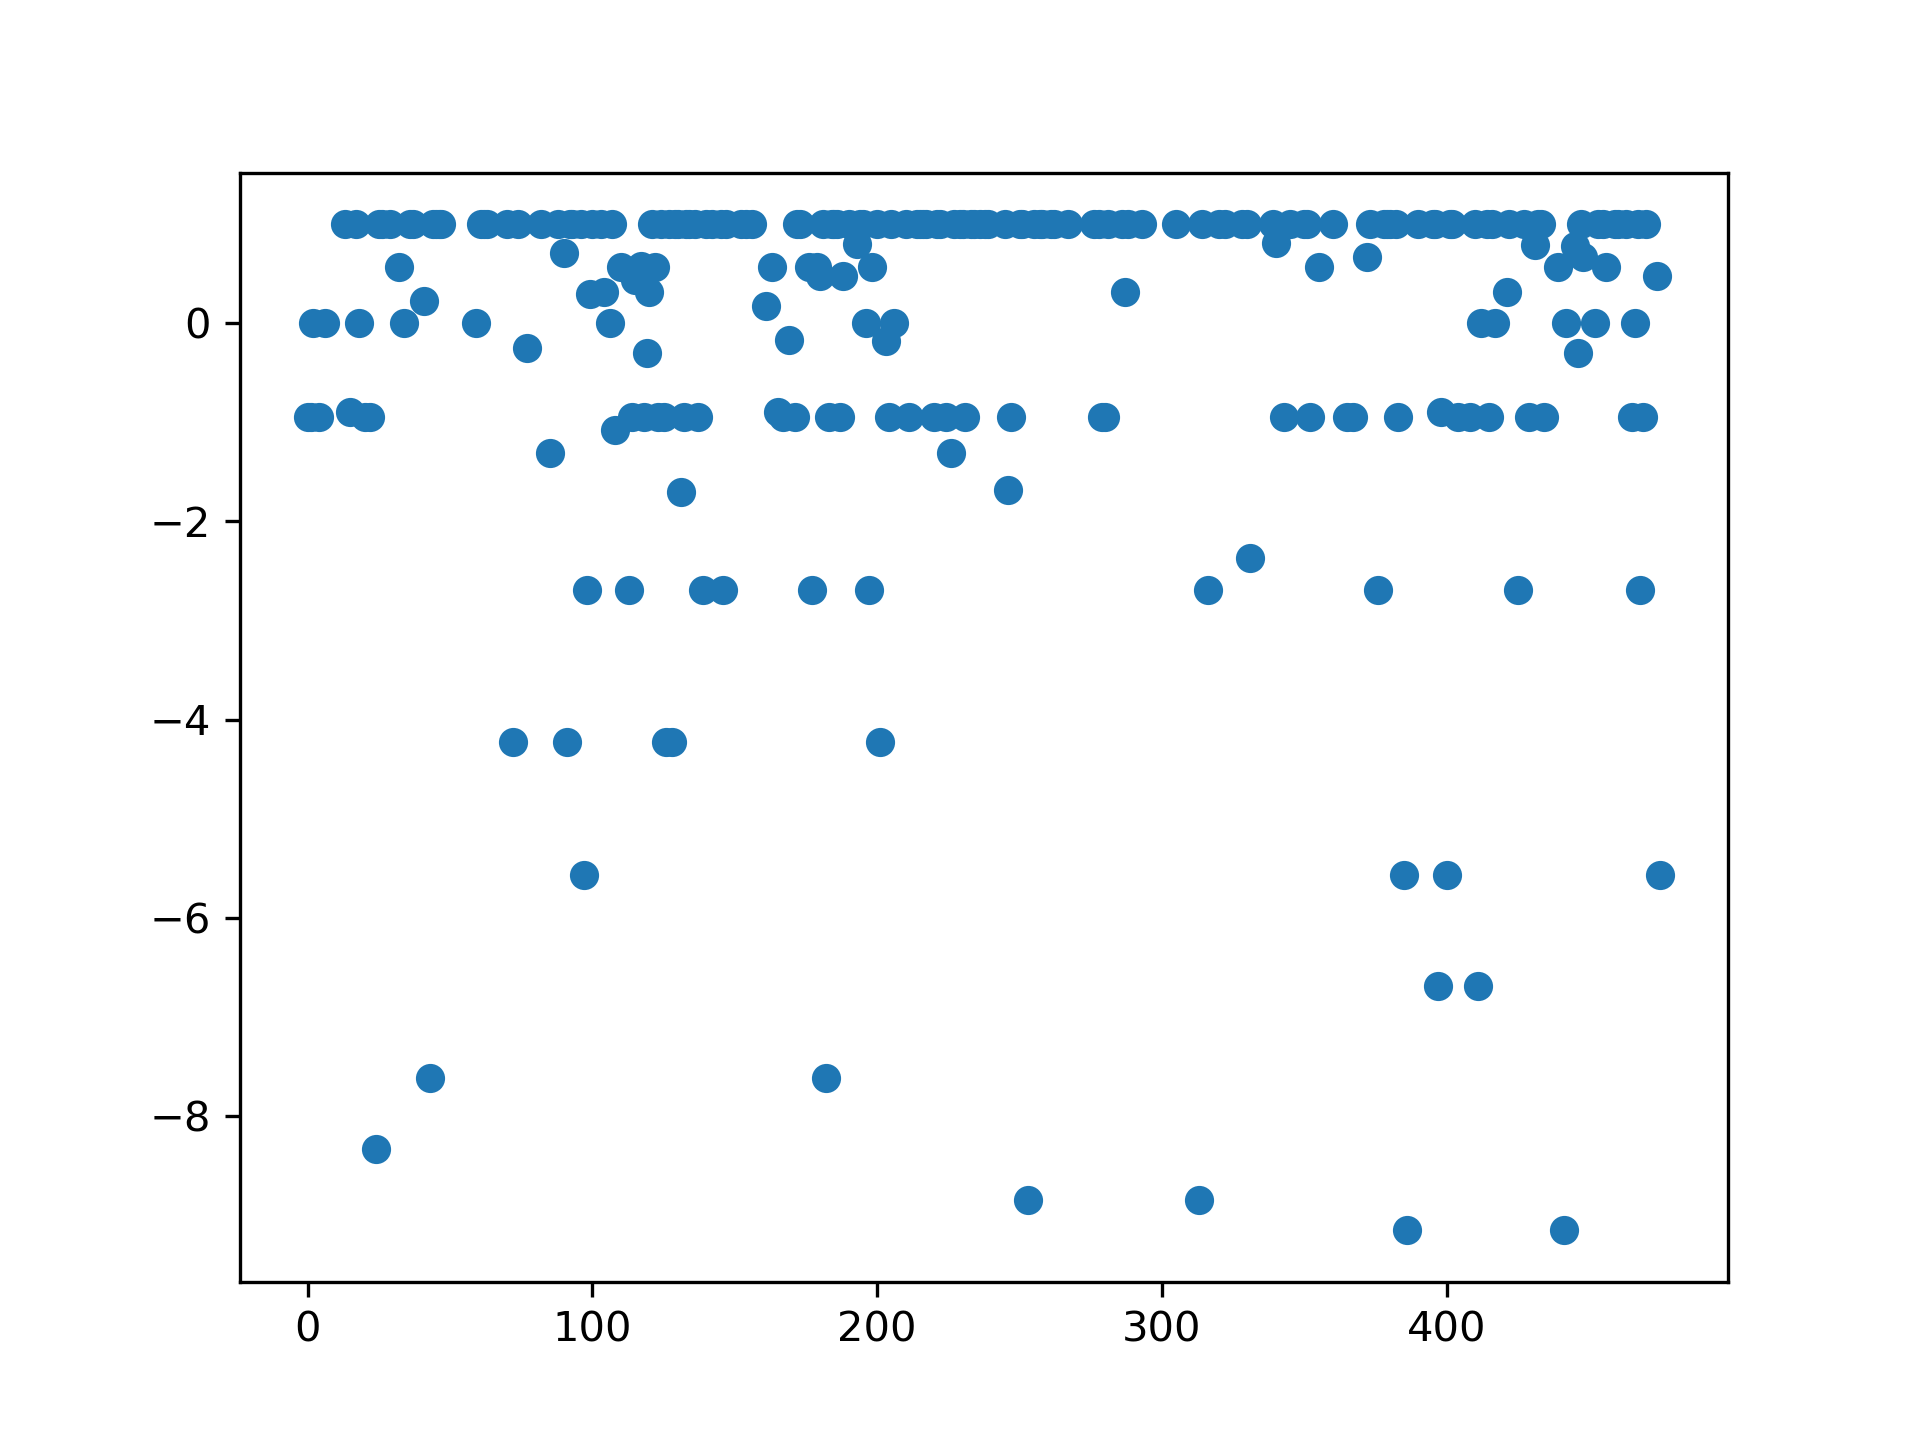
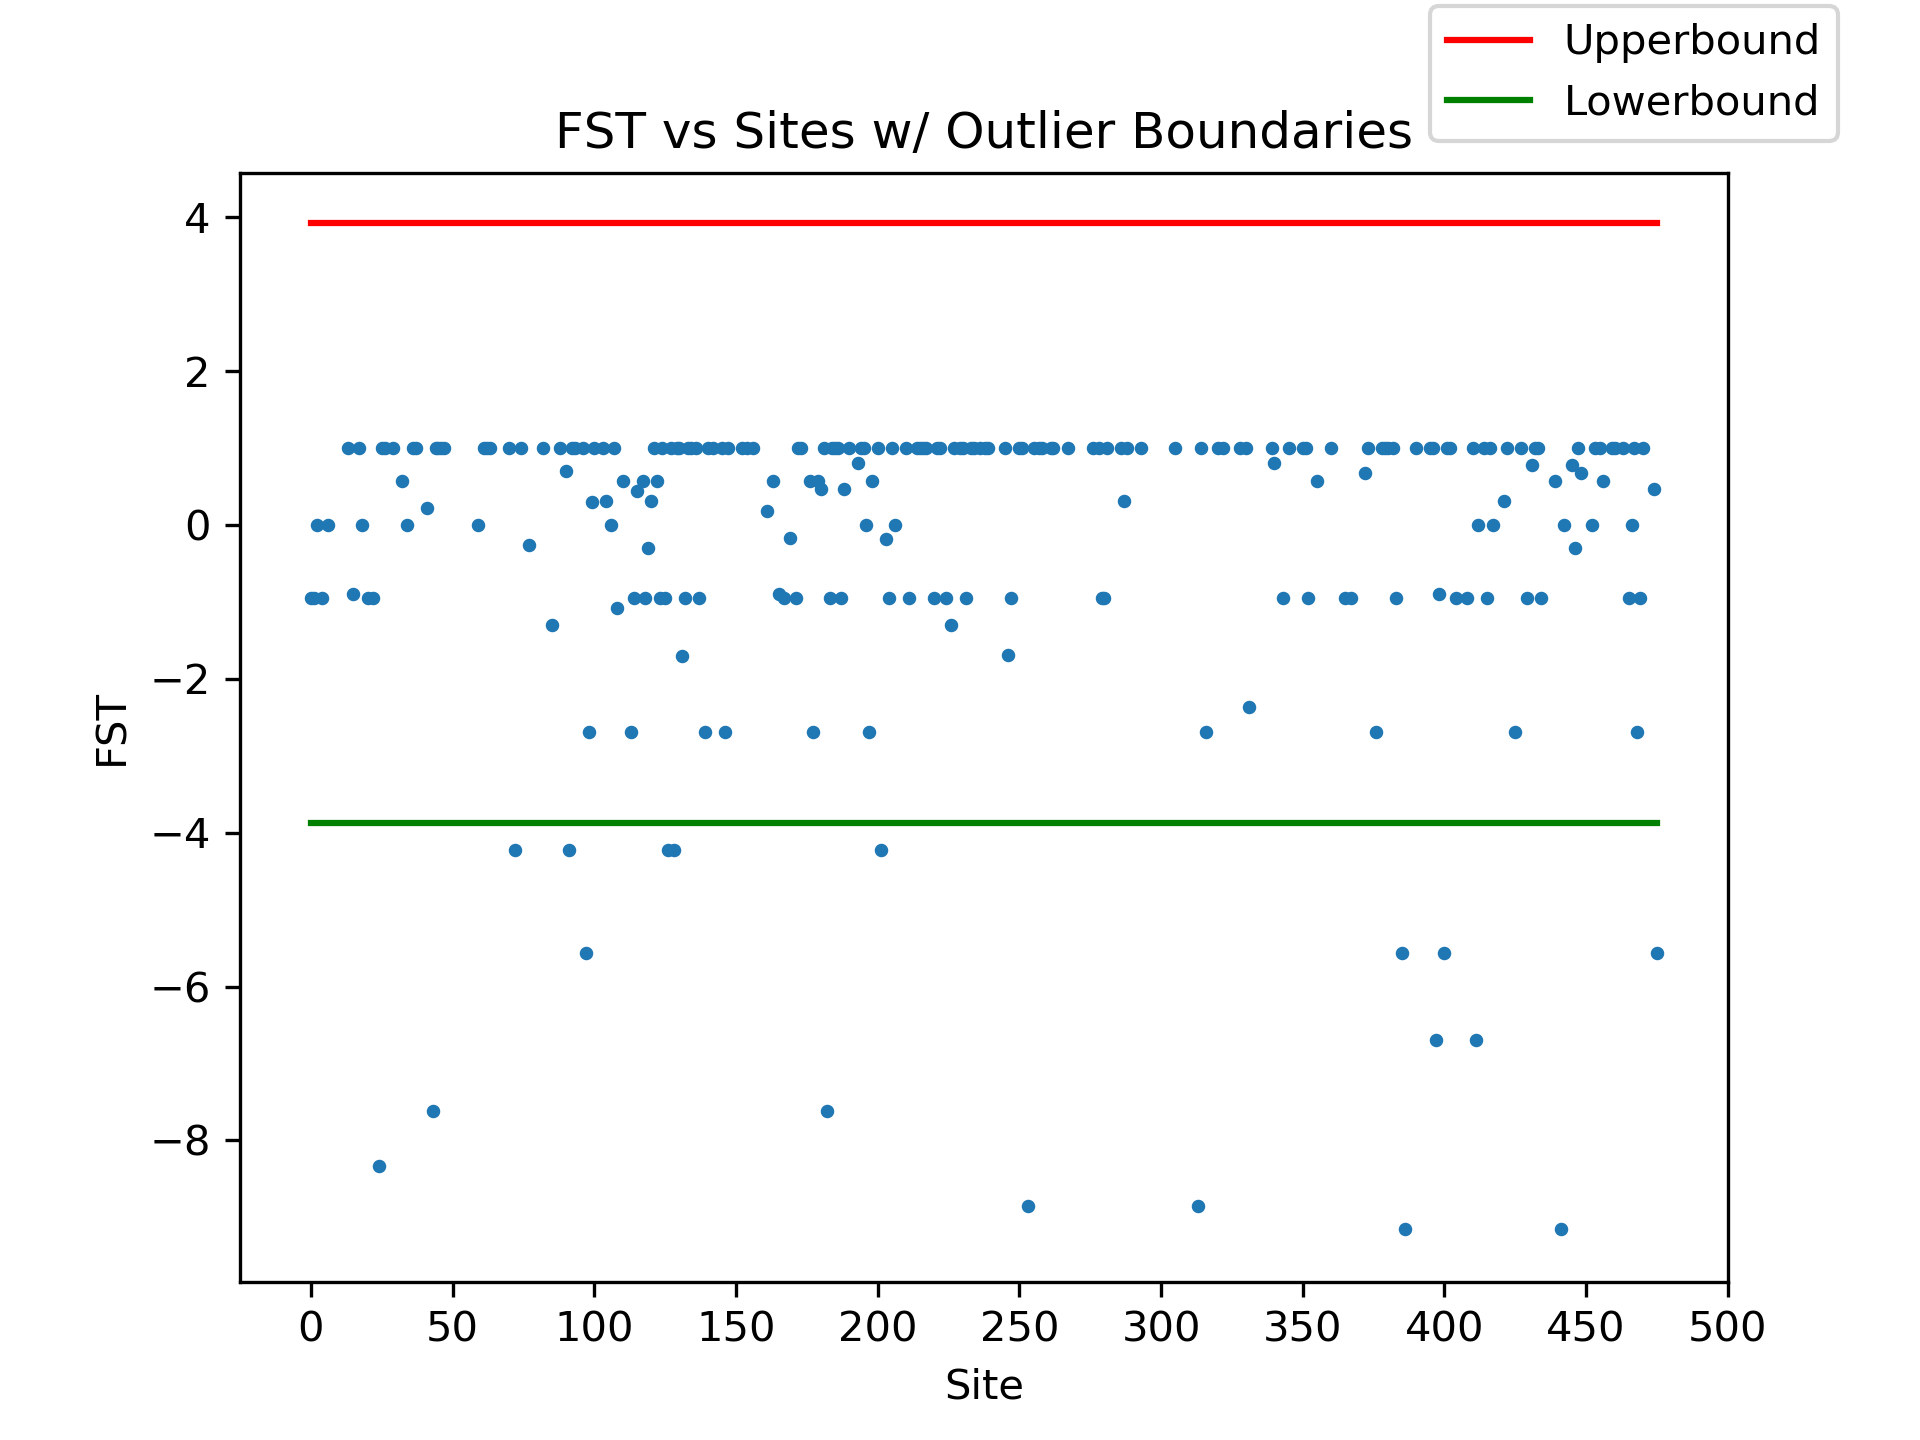
fixed FST calculation

diff --git a/Group B/Star_Wars/FSTtool.py b/Group B/Star_Wars/FSTtool.py
@@ -25,7 +25,7 @@ def main():
 		iqr = quartile[1] - quartile[0]
 		upperbound = quartile[1] + 1.5 * iqr
 		lowerbound = quartile[0] - 1.5 * iqr
-		plt.xticks(np.arange(min(position), 100 * (max(position) / 100 + 1), 50))
+		plt.xticks(np.arange(0, 1, 0.1), rotation=90)
 		plt.title('FST vs Sites w/ Outlier Boundaries')
 		plt.xlabel('Site')
 		plt.ylabel('FST')
@@ -41,22 +41,26 @@ def main():
 
 def generateFST(h_s, h_t):
 	fst = []
-	for i in range(0, len(h_s)):
-		if(h_t[i] == 0):
+	for key in h_s:
+		if(h_s[key] == 0):
 			continue
-		fst.append([i, 1-(h_s[i]/h_t[i])])
+		fst.append([key, 1-(h_s[key]/h_t[key])])
 	return fst
 
 
 def parsePopulation(lines):
-	h = []
+	h = {}
+	pos_raw = lines[2].split(" ");
+	positions = []
+	for i in range(1, len(pos_raw)):
+		positions.append(float(pos_raw[i]))
 	for i in range(0, len(lines[3]) - 1):
 		num_zero = 0;
 		for j in range(3, len(lines)):
 			if(int(lines[j][i]) == 0):
 				num_zero += 1
 		temp_q = num_zero/(len(lines) - 3)
-		h.append(temp_q * (1-temp_q))
+		h[positions[i]] = temp_q * (1-temp_q)
 	return h
 
 
